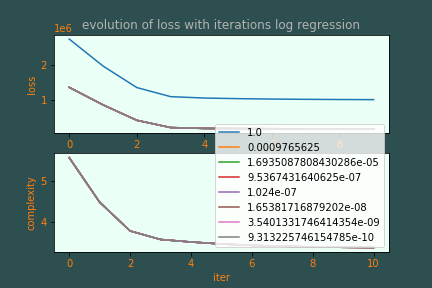
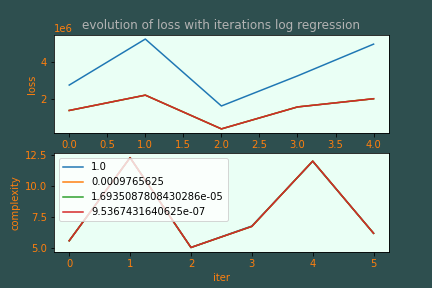
big mistake corrected reg log

diff --git a/project1/scripts/implementations.py b/project1/scripts/implementations.py
@@ -67,7 +67,7 @@ def calculate_loss(y, tx, w, lambda_=0):
     txw=tx.dot(w)
     for i in range(len(y)):
         loss+= - y[i]*txw[i] + np.log(1 + np.exp(txw[i]))
-        loss+= lambda_ * np.linalg.norm(w)
+        loss+= lambda_ * np.linalg.norm(w)**2
     #for i in range(len(y)):
     #    sum += np.log(1+np.exp(tx[i].T.dot(w)))
     #    sum -= y[i]*(tx[i].T.dot(w))
@@ -75,7 +75,7 @@ def calculate_loss(y, tx, w, lambda_=0):
     return loss
 
 
-def calculate_gradient(y, tx, w):
+def calculate_gradient(y, tx, w, lambda_=0):
     """compute the gradient of loss.
             Parameters:
                     y (numpy.ndarray): An array with shape (n,1)
@@ -85,7 +85,7 @@ def calculate_gradient(y, tx, w):
                     grad (numpy.ndarray): An array with shape (m,1), the gradient
     """
     inner = sigmoid(tx.dot(w))-y
-    grad= tx.T.dot(inner)
+    grad= tx.T.dot(inner) + 2*lambda_*np.linalg.norm(w)
     return grad
 
 
@@ -252,7 +252,7 @@ def learning_by_gradient_descent(y, tx, w, gamma,lambda_=0):
         loss (float): MSE loss
     """
     loss = calculate_loss(y, tx, w, lambda_)
-    grad = calculate_gradient(y, tx, w)   
+    grad = calculate_gradient(y, tx, w, lambda_)
     w = w - (grad * gamma).T
     return w, loss
 
@@ -345,7 +345,6 @@ def reg_logistic_regression(y, tx, initial_w=0, max_iters=1000, gamma=0.01, thre
         # get loss and update w.
         last_loss = loss
         w, loss = learning_by_gradient_descent(y, tx, w, gamma,lambda_)
-        
         # log info
         if log and iter % 100 == 0:
             print("Current iteration={i}, loss={l}".format(i=iter, l=loss))
